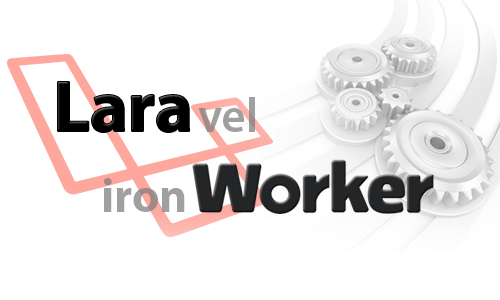
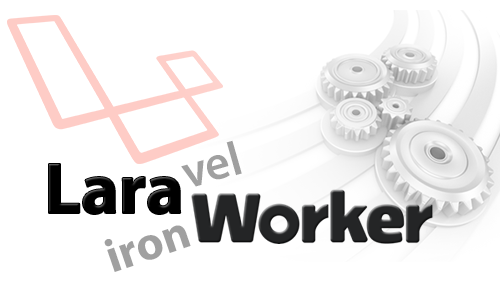
modifying laraworker image and readme

Changed region(s): [[0.0, 0.03, 1.0, 0.9], [0.93, 0.09, 0.96, 0.15], [0.93, 0.21, 0.96, 0.24]]

diff --git a/README.md b/README.md
@@ -1,5 +1,7 @@
+<p align="center">
+<img align="center" src="../master/images/laraworker.png" alt="laraworker">
+</p>
 
-###  LaraWorker
 
 LaraWorker is a helper package that makes integrating your Laravel application with Iron.io's IronWorker very easy!
 
